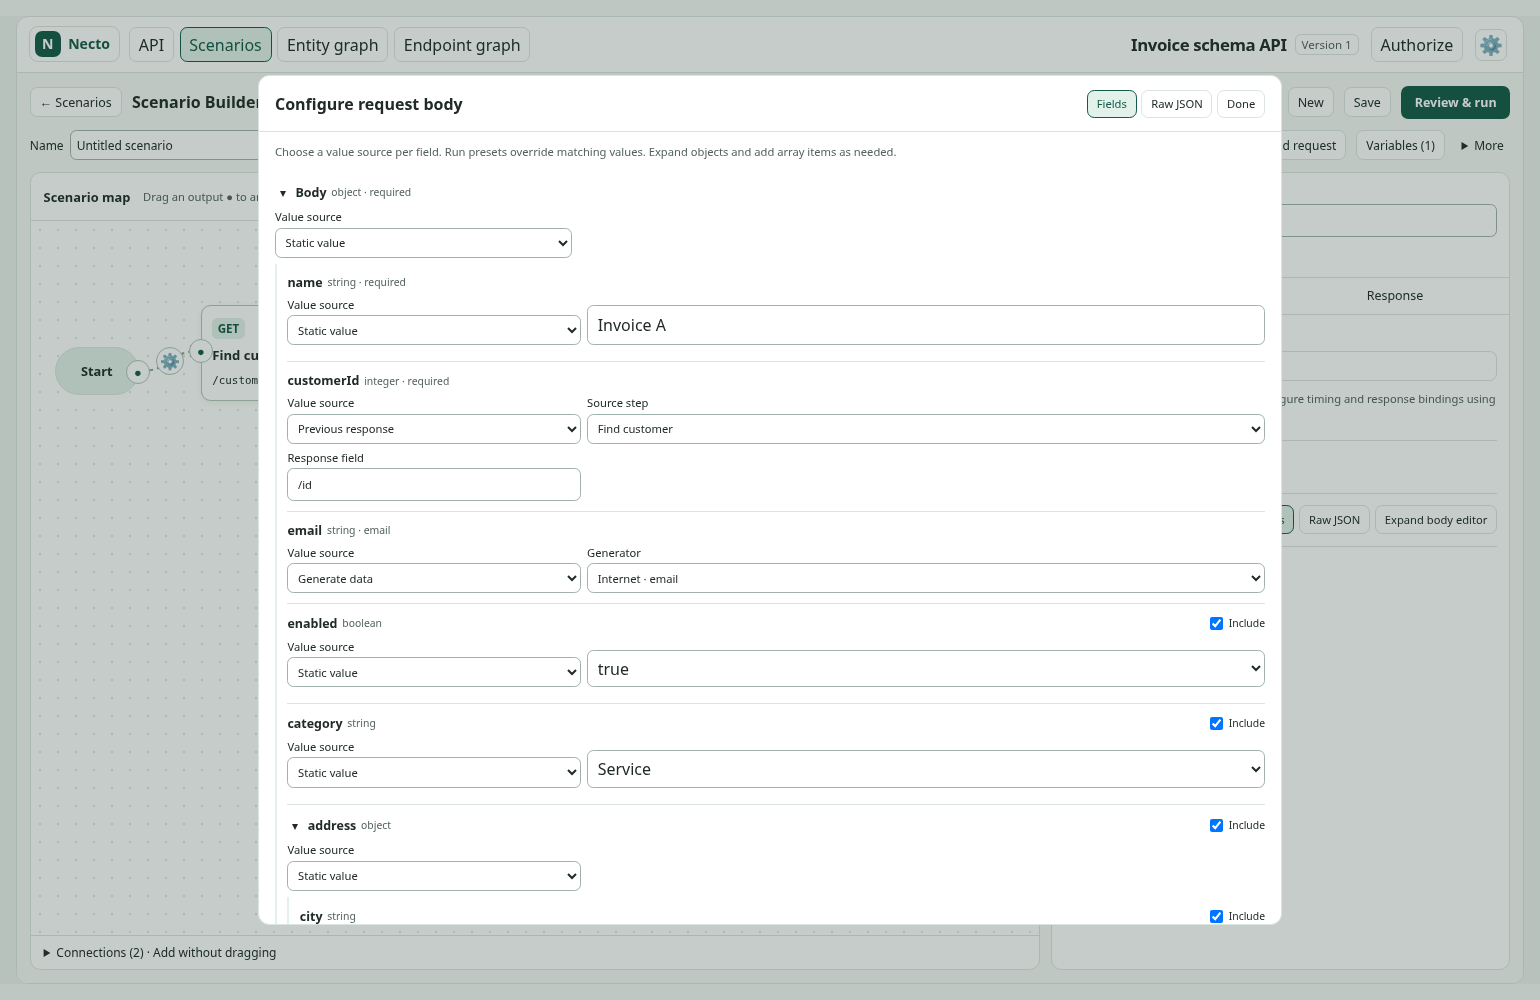
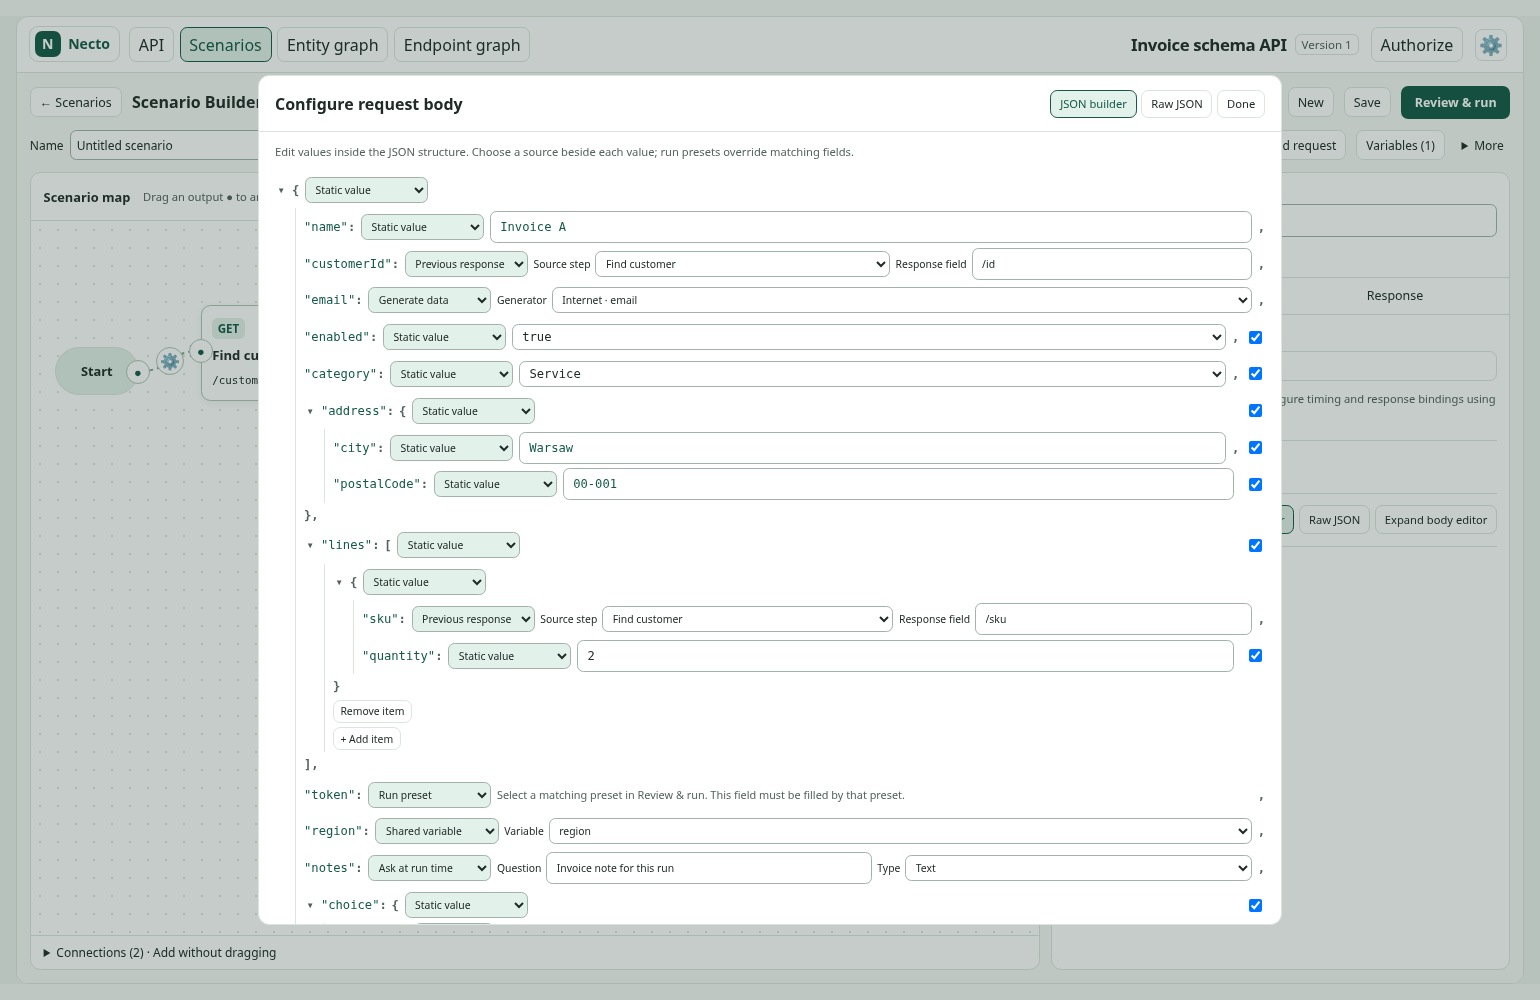
feat: edit scenario body values inside a JSON-shaped payload

diff --git a/Necto.UI/src/features/scenario-builder/BodySchemaField.vue b/Necto.UI/src/features/scenario-builder/BodySchemaField.vue
@@ -5,13 +5,13 @@ import { pointerParts, readPointer } from './pointers.js'
 import { schemaTemplate } from '../request-runner/schemaTemplate.js'
 import { generators } from './generation.js'
 import { pointerHints } from './pointerHints.js'
-const props=defineProps({step:Object,operation:Object,raw:Object,path:{type:Array,default:()=>[]},name:String,required:Boolean,steps:Array,operations:Array,variables:Array,results:Array,disabled:Boolean,depth:{type:Number,default:()=>0},ancestors:{type:Array,default:()=>[]}})
+const props=defineProps({step:Object,operation:Object,raw:Object,path:{type:Array,default:()=>[]},name:String,required:Boolean,steps:Array,operations:Array,variables:Array,results:Array,disabled:Boolean,depth:{type:Number,default:()=>0},ancestors:{type:Array,default:()=>[]},last:{type:Boolean,default:true}})
 const emit=defineEmits(['raw'])
 const body=inject(BODY_VALUE,null)
 function current(){if(!body)return bodyAt(props.step,props.path);try{return readPointer(body.value,pointer(props.path))}catch{return undefined}}
 const variants=computed(()=>{const raw=props.operation.resolve(props.raw);return raw?.oneOf??raw?.anyOf??[]})
 const variant=computed(()=>inferVariant(props.operation,props.raw,current(),props.step.request.bodyVariants?.[pointer(props.path)]))
-const error=ref(''),open=ref(props.depth<2),visible=ref(50),itemsVisible=ref(10)
+const error=ref(''),open=ref(props.depth<4),visible=ref(50),itemsVisible=ref(10)
 const schema=computed(()=>schemaView(props.operation,props.raw,variant.value))
 const type=computed(()=>{const t=schema.value.type;return Array.isArray(t)?t.find(t=>t!=='null'):t??(Object.keys(schema.value.properties??{}).length?'object':schema.value.items?'array':current()!==undefined?(Array.isArray(current())?'array':current()===null?'null':typeof current()):'string')})
 const nullable=computed(()=>schema.value.nullable||schema.value.type?.includes?.('null'))
@@ -37,9 +37,9 @@ function changeVariant(index,element){attempt(()=>{if(!window.confirm('Replace t
 </script>
 <template>
  <section class="schema-field" :data-body-path="pointer(path)" :class="{'root-field':!path.length}">
-  <div class="field-heading"><button v-if="['object','array'].includes(type)&&source==='static'" type="button" class="expand-field" :aria-expanded="open" :aria-label="'Expand '+name" @click="open=!open">{{open?'▾':'▸'}}</button><strong>{{name}}</strong><span class="schema-type">{{type}}{{schema.format?' · '+schema.format:''}}{{required?' · required':''}}{{schema.readOnly?' · read only':''}}</span><label v-if="path.length&&!required&&source==='static'&&!schema.readOnly" class="include-field"><input type="checkbox" :checked="value!==undefined" :disabled="disabled" :aria-label="'Include '+name" @change="include($event.target.checked,$event.target)">Include</label></div>
-  <small v-if="schema.description" class="description" :title="schema.description">{{schema.description}}</small>
-  <fieldset :disabled="disabled" class="field-editor"><label>Value source<select :value="source" :aria-label="'Source for '+name" @change="choose($event.target.value,$event.target)"><option value="static">Static value</option><option value="response">Previous response</option><option value="variable">Shared variable</option><option v-if="path.length" value="preset">Run preset</option><option value="generate">Generate data</option><option value="human">Ask at run time</option></select></label>
+  <div class="json-line">
+  <div class="field-heading" :title="[schema.description,type,schema.format,required?'required':'',schema.readOnly?'read only':''].filter(Boolean).join(' · ')"><button v-if="['object','array'].includes(type)&&source==='static'" type="button" class="expand-field" :aria-expanded="open" :aria-label="'Expand '+name" @click="open=!open">{{open?'▾':'▸'}}</button><span v-if="path.length&&typeof path.at(-1)!=='number'" class="json-key">{{JSON.stringify(name)}}<span class="punctuation">:</span></span><span v-if="source==='static'&&['object','array'].includes(type)&&value!==null" class="punctuation">{{type==='object'?'{':'['}}{{!open?' … '+(type==='object'?'}':']'):''}}</span><span v-if="schema.readOnly" class="field-badge">read only</span></div>
+  <fieldset :disabled="disabled" class="field-editor"><label class="source-picker"><span class="sr-only">Value source</span><select :value="source" :aria-label="'Source for '+name" @change="choose($event.target.value,$event.target)"><option value="static">Static value</option><option value="response">Previous response</option><option value="variable">Shared variable</option><option v-if="path.length" value="preset">Run preset</option><option value="generate">Generate data</option><option value="human">Ask at run time</option></select></label>
    <template v-if="source==='static'"><small v-if="value===null">JSON null</small>
     <select v-if="schema.enum" :value="JSON.stringify(value)" :aria-label="'Value for '+name" @change="set(JSON.parse($event.target.value))"><option v-if="value===undefined" value="" disabled>Choose value</option><option v-for="item in schema.enum" :key="JSON.stringify(item)" :value="JSON.stringify(item)">{{typeof item==='object'?JSON.stringify(item):String(item)}}</option></select>
     <select v-else-if="type==='boolean'" :value="value===undefined?'':JSON.stringify(value)" :aria-label="'Value for '+name" @change="set(JSON.parse($event.target.value))"><option value="" disabled>Not set</option><option value="true">true</option><option value="false">false</option><option v-if="nullable" value="null">null</option></select>
@@ -53,21 +53,24 @@ function changeVariant(index,element){attempt(()=>{if(!window.confirm('Replace t
    <template v-else-if="source==='generate'"><label>Generator<select v-model="binding.generator" :aria-label="'Generator for '+name"><option v-for="[id,label] in generators" :key="id" :value="id">{{label}}</option></select></label><input v-if="binding.generator==='regex'" v-model="binding.pattern" :aria-label="'Pattern for '+name"></template>
    <template v-else-if="source==='human'"><label>Question<input v-model="binding.prompt" :aria-label="'Question for '+name"></label><label>Type<select v-model="binding.valueType"><option value="text">Text</option><option value="number">Number</option><option value="boolean">Boolean</option><option value="json">JSON</option></select></label></template>
   </fieldset>
+  <span v-if="source!=='static'||!['object','array'].includes(type)||value===null" class="punctuation comma">{{last?'':','}}</span><label v-if="path.length&&typeof path.at(-1)!=='number'&&!required&&source==='static'&&!schema.readOnly" class="include-field"><input type="checkbox" :checked="value!==undefined" :disabled="disabled" :aria-label="'Include '+name" @change="include($event.target.checked,$event.target)"><span class="sr-only">Include {{name}}</span></label>
+  </div>
   <div v-if="source==='static'&&open&&value!==null" class="schema-children">
    <label v-if="variants.length">Schema variant<select :value="variant" :disabled="disabled" :aria-label="'Variant for '+name" @change="changeVariant($event.target.value,$event.target)"><option v-for="(item,index) in variants" :key="index" :value="index">{{operation.resolve(item)?.title??item.$ref?.split('/').at(-1)??('Variant '+(index+1))}}</option></select></label>
    <template v-if="recursive"><p class="field-note">Recursive or deeply nested schema. Edit this subtree as JSON.</p><textarea v-model="jsonText" :disabled="disabled" :aria-label="'JSON value for '+name" rows="3" @change="attempt(()=>set(JSON.parse(jsonText)))" /></template>
    <template v-else-if="type==='object'&&properties.length">
-    <BodySchemaField v-for="[key,property] in properties.slice(0,visible)" :key="key" :raw="property" :operation="operation" :step="step" :path="[...path,key]" :name="key" :required="schema.required.includes(key)" :steps="steps" :operations="operations" :variables="variables" :results="results" :disabled="disabled" :depth="depth+1" :ancestors="[...ancestors,raw.$ref??raw]" @raw="emit('raw')" />
+    <BodySchemaField v-for="([key,property],index) in properties.slice(0,visible)" :last="index===properties.length-1" :key="key" :raw="property" :operation="operation" :step="step" :path="[...path,key]" :name="key" :required="schema.required.includes(key)" :steps="steps" :operations="operations" :variables="variables" :results="results" :disabled="disabled" :depth="depth+1" :ancestors="[...ancestors,raw.$ref??raw]" @raw="emit('raw')" />
     <button v-if="visible<properties.length" type="button" class="secondary" @click="visible+=50">Show next fields ({{visible}} / {{properties.length}})</button>
     <button v-if="schema.additionalProperties" type="button" class="secondary" @click="emit('raw')">Edit additional properties in Raw JSON</button>
    </template>
-   <template v-else-if="type==='array'"><div v-for="(item,index) in (Array.isArray(value)?value:[]).slice(0,itemsVisible)" :key="index" class="array-item"><BodySchemaField :raw="schema.items??{}" :operation="operation" :step="step" :path="[...path,index]" :name="'Item '+(index+1)" :required="true" :steps="steps" :operations="operations" :variables="variables" :results="results" :disabled="disabled" :depth="depth+1" :ancestors="[...ancestors,raw.$ref??raw]" @raw="emit('raw')" /><button type="button" class="secondary" :disabled="disabled" :aria-label="'Remove '+name+' item '+(index+1)" @click="removeItem(index)">Remove item</button></div><button v-if="Array.isArray(value)&&value.length>itemsVisible" type="button" class="secondary" @click="itemsVisible+=10">Show more items ({{itemsVisible}} / {{value.length}})</button><button type="button" class="secondary" :disabled="disabled" :aria-label="'Add item to '+name" @click="addItem">+ Add item</button></template>
+   <template v-else-if="type==='array'"><div v-for="(item,index) in (Array.isArray(value)?value:[]).slice(0,itemsVisible)" :key="index" class="array-item"><BodySchemaField :raw="schema.items??{}" :operation="operation" :step="step" :path="[...path,index]" :name="'Item '+(index+1)" :last="index===value.length-1" :required="true" :steps="steps" :operations="operations" :variables="variables" :results="results" :disabled="disabled" :depth="depth+1" :ancestors="[...ancestors,raw.$ref??raw]" @raw="emit('raw')" /><button type="button" class="secondary" :disabled="disabled" :aria-label="'Remove '+name+' item '+(index+1)" @click="removeItem(index)">Remove item</button></div><button v-if="Array.isArray(value)&&value.length>itemsVisible" type="button" class="secondary" @click="itemsVisible+=10">Show more items ({{itemsVisible}} / {{value.length}})</button><button type="button" class="secondary" :disabled="disabled" :aria-label="'Add item to '+name" @click="addItem">+ Add item</button></template>
    <template v-else-if="type==='object'"><textarea v-model="jsonText" :disabled="disabled" :aria-label="'JSON value for '+name" rows="3" @change="attempt(()=>set(JSON.parse(jsonText)))" /></template>
   </div>
+  <div v-if="source==='static'&&open&&['object','array'].includes(type)&&value!==null" class="punctuation closing">{{type==='object'?'}':']'}}{{last?'':','}}</div>
   <p v-if="error" class="error" role="alert">{{error}}</p>
  </section>
 </template>
 <style scoped>
-.schema-field { min-width:0; padding:.6rem 0; border-bottom:1px solid var(--line); }.root-field { border:0; }.field-heading { display:flex; align-items:center; flex-wrap:wrap; gap:.3rem; font-size:.78rem; }.schema-type { font-size:.65rem; color:var(--muted); }.include-field { margin-left:auto; display:flex; gap:.2rem; align-items:center; font-size:.65rem; }.expand-field { padding:.15rem .3rem; }.description { display:-webkit-box; -webkit-line-clamp:2; -webkit-box-orient:vertical; overflow:hidden; font-size:.68rem; color:var(--muted); margin:.25rem 0; }.field-editor { border:0; padding:0; min-width:0; display:grid; gap:.4rem; margin:.4rem 0 0; }label { display:grid; gap:.2rem; font-size:.7rem; }input,select,textarea { width:100%; min-width:0; padding:.35rem; }.schema-children { padding-left:.65rem; border-left:2px solid var(--accent-soft); margin-top:.4rem; }.field-note { color:var(--muted); font-size:.7rem; margin:.3rem 0; }.array-item { padding-bottom:.5rem; }.array-item > button { font-size:.65rem; }.error { font-size:.73rem; margin:.3rem 0; }
-@container (min-width:650px) { .field-editor { grid-template-columns:minmax(12rem,30%) minmax(0,1fr); align-items:end; } }
+.schema-field { min-width:0; font-family:ui-monospace,SFMono-Regular,Consolas,monospace; font-size:.76rem; }.json-line { display:flex; align-items:center; gap:.35rem; flex-wrap:wrap; min-height:2.3rem; padding:.15rem 0; }.field-heading { display:flex; align-items:center; gap:.3rem; flex:none; }.json-key { color:var(--accent); white-space:pre-wrap; overflow-wrap:anywhere; }.punctuation { color:var(--muted); font-weight:600; }.expand-field { padding:0 .15rem; border:0; background:transparent; color:var(--muted); }.field-badge { font: .6rem system-ui; color:var(--muted); }.include-field { display:flex; align-items:center; margin-left:auto; }.include-field input { width:auto; }.field-editor { border:0; padding:0; margin:0; display:flex; align-items:center; gap:.35rem; flex-wrap:wrap; flex:1; min-width:0; }.field-editor label { display:flex; align-items:center; gap:.3rem; min-width:0; font: .65rem system-ui; }.field-editor .source-picker { flex:none; }.source-picker select { max-width:9rem; background:var(--accent-soft); font-size:.65rem; }.field-editor > input,.field-editor > select { flex:1; min-width:5rem; }.field-editor label:not(.source-picker) { flex:1; flex-wrap:wrap; }.field-editor label:not(.source-picker) input,.field-editor label:not(.source-picker) select { flex:1; min-width:5rem; }input,select,textarea { min-width:0; max-width:100%; padding:.25rem .35rem; font:inherit; }input[type=text],input[type=password] { color:var(--accent); }.schema-children { margin-left:1.25rem; padding-left:.5rem; border-left:1px solid var(--line); }.schema-children > label { font:.7rem system-ui; }.field-note { color:var(--muted); font:.68rem system-ui; margin:.2rem 0; }.array-item > button,.schema-children > button { font:.65rem system-ui; margin:.15rem 0; padding:.2rem .4rem; }.closing { min-height:1.5rem; display:flex; align-items:center; white-space:pre; }.error { font:.73rem system-ui; margin:.3rem 0; }.sr-only { position:absolute; width:1px; height:1px; overflow:hidden; clip-path:inset(50%); white-space:nowrap; }
+@container (max-width:450px) { .schema-children { margin-left:.6rem; padding-left:.3rem; }.field-editor { flex-basis:100%; margin-left:.7rem; }.source-picker select { max-width:8rem; }.include-field { margin-left:0; }.json-line { gap:.2rem; } }
 </style>

diff --git a/Necto.UI/src/features/scenario-builder/ScenarioBodyEditor.vue b/Necto.UI/src/features/scenario-builder/ScenarioBodyEditor.vue
@@ -16,8 +16,8 @@ provide(BODY_VALUE,computed(()=>parsed.value.value))
 </script>
 <template>
  <section class="scenario-body-editor" aria-label="Request body schema">
-  <header><h4>Request body</h4><div v-if="json" role="group" aria-label="Body editing mode"><button type="button" class="secondary" :aria-pressed="mode==='fields'" @click="mode='fields'">Fields</button><button type="button" class="secondary" :aria-pressed="mode==='raw'" @click="mode='raw'">Raw JSON</button><button type="button" class="secondary" @click="expand">Expand body editor</button></div></header>
-  <Teleport :disabled="!expanded" :to="dialogHost??'body'"><div class="body-editor-content"><p class="body-guidance" v-if="json">Choose a value source per field. Run presets override matching values. Expand objects and add array items as needed.</p>
+  <header><h4>Request body</h4><div v-if="json" role="group" aria-label="Body editing mode"><button type="button" class="secondary" :aria-pressed="mode==='fields'" @click="mode='fields'">JSON builder</button><button type="button" class="secondary" :aria-pressed="mode==='raw'" @click="mode='raw'">Raw JSON</button><button type="button" class="secondary" @click="expand">Expand body editor</button></div></header>
+  <Teleport :disabled="!expanded" :to="dialogHost??'body'"><div class="body-editor-content"><p class="body-guidance" v-if="json">Edit values inside the JSON structure. Choose a source beside each value; run presets override matching fields.</p>
   <div v-if="json&&mode==='fields'">
    <p v-if="parseError" class="error" role="alert">{{parseError}}</p>
    <BodySchemaField v-else :key="step.id+media[0]" :step="step" :operation="operation" :raw="media[1].schema??{}" name="Body" :required="!!operation.requestBody.required" :steps="steps" :operations="operations" :variables="variables" :results="results" :disabled="disabled" @raw="mode='raw'" />
@@ -27,7 +27,7 @@ provide(BODY_VALUE,computed(()=>parsed.value.value))
    <details v-if="json" class="advanced-body-bindings"><summary>Advanced body bindings</summary><StepInputs :step="step" :operation="operation" :steps="steps" :operations="operations" :variables="variables" :body-only="true" :disabled="disabled" /></details>
   </div>
  </div></Teleport>
-  <dialog ref="dialog" class="body-editor-dialog" aria-labelledby="expanded-body-title" @close="expanded=false"><div class="dialog-shell"><header><h3 id="expanded-body-title">Configure request body</h3><div><button type="button" class="secondary" :aria-pressed="mode==='fields'" @click="mode='fields'">Fields</button><button type="button" class="secondary" :aria-pressed="mode==='raw'" @click="mode='raw'">Raw JSON</button><button type="button" class="secondary" aria-label="Close body editor" @click="dialog.close()">Done</button></div></header><div ref="dialogHost" class="dialog-host" /></div></dialog>
+  <dialog ref="dialog" class="body-editor-dialog" aria-labelledby="expanded-body-title" @close="expanded=false"><div class="dialog-shell"><header><h3 id="expanded-body-title">Configure request body</h3><div><button type="button" class="secondary" :aria-pressed="mode==='fields'" @click="mode='fields'">JSON builder</button><button type="button" class="secondary" :aria-pressed="mode==='raw'" @click="mode='raw'">Raw JSON</button><button type="button" class="secondary" aria-label="Close body editor" @click="dialog.close()">Done</button></div></header><div ref="dialogHost" class="dialog-host" /></div></dialog>
  </section>
 </template>
 <style scoped>

diff --git a/docs/scenario-builder/README.md b/docs/scenario-builder/README.md
@@ -40,7 +40,7 @@ Each run uses fresh responses. Missing response values fail the receiving step i
 
 ## Configure request bodies from the schema
 
-JSON requests open in **Request body → Fields**. The tree shows named properties, types/formats, required/read-only flags, nested objects, array items, enums and selected `oneOf`/`anyOf` variants. Referenced schemas and `allOf` properties are resolved into that tree. Optional properties can be included or removed.
+JSON requests open in **Request body → JSON builder**. Editable values sit directly beside quoted JSON keys, with braces, brackets, commas and indentation showing the payload structure. Objects and array items start expanded through four levels; deeper branches can be expanded on demand. The tree shows named properties, types/formats, required/read-only flags, nested objects, array items, enums and selected `oneOf`/`anyOf` variants. Referenced schemas and `allOf` properties are resolved into that tree. Optional properties can be included or removed.
 
 At each field, choose:
 
